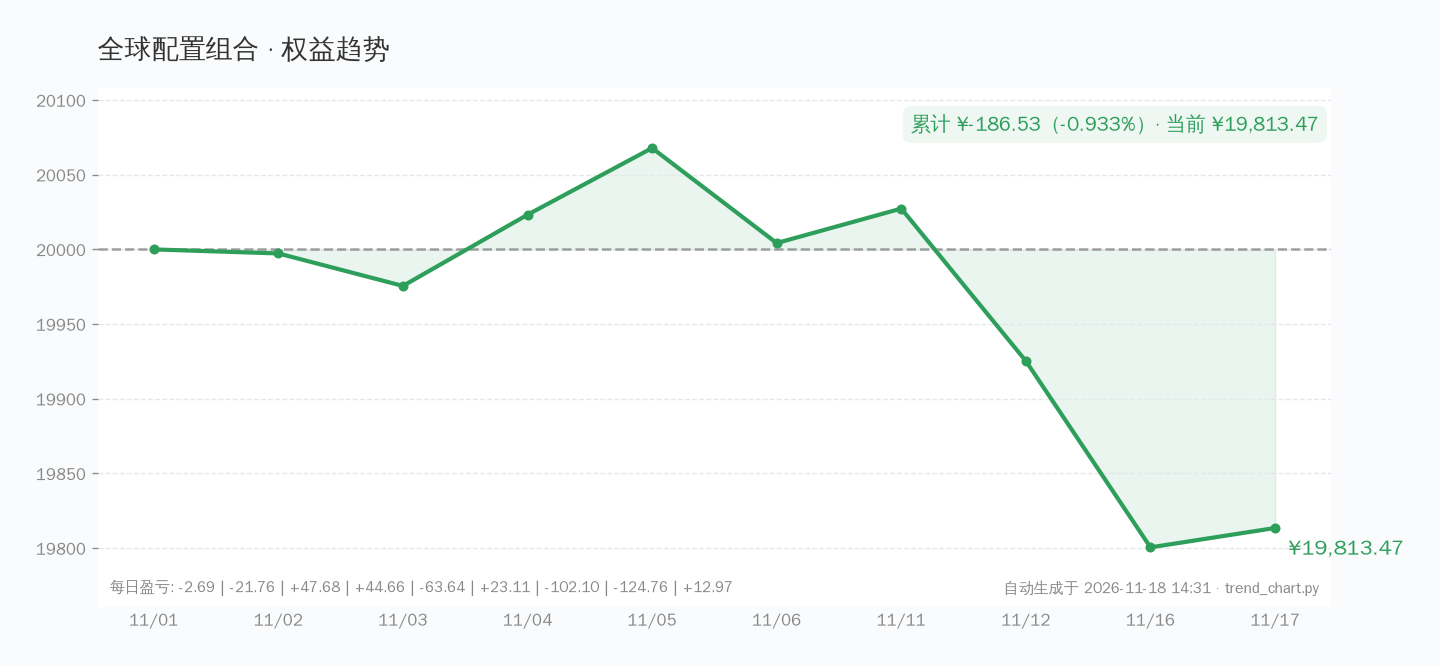
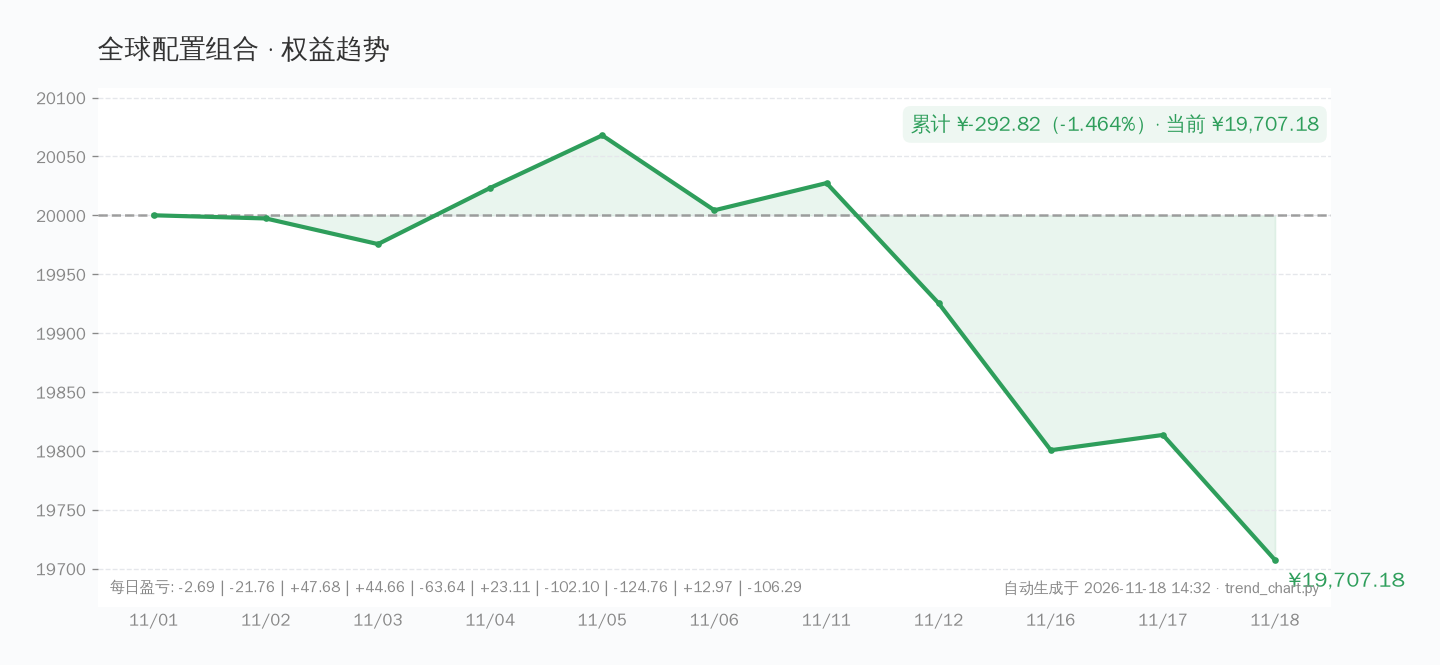
sim: trend chart update 2026-11-18 (equity ¥19,707.18)

diff --git a/sim/journal.md b/sim/journal.md
@@ -155,3 +155,16 @@
 1. 做对了什么：昨天最担心的"黄金继续杀跌"没有发生，反弹让 450 股重仓回血 +¥20；全程零操作，没有因昨日 -1% 新低而恐慌减仓，73% 现金 + 债券底仓的组合今日明显跑赢港股单边仓。
 2. 做错了什么：无新增错误；存量问题仍是 11-06 追高的 400 股黄金（成本 8.29 附近，现价 7.90，浮亏约 -4.7%），止损纪律仍未闭环，需在下一次信号评估时明确"执行止损 or 书面豁免理由"，不能再拖。
 3. 明天关注：① 港股是否连续第二日走弱（恒科若跌到 RSI<40 区域，按协议评估是否触发分批建仓条件，切忌一次性重仓）；② 黄金能否站稳 7.90 并收复 8.00，决定浮亏处置方案；③ 隔夜美股/美元指数对 QDII 与金价的方向指引。
+
+## 2026-11-18 收盘
+
+- 总权益 **¥19707.18**（当日 -0.54% / 累计 -1.464%）
+- 德国ETF华安 1.761 (-3.93%)
+- 恒生ETF华夏 1.357 (-1.24%)
+- 恒生科技ETF华夏 0.467 (-1.06%)
+- 黄金ETF华安 7.710 (-2.37%)
+- 国债ETF国泰 141.334 (-0.03%)
+- 十年国债ETF国泰 135.930 (+0.12%)
+- 现金 ¥16237.06
+- 📝 黄金ETF触及-8%止损线，按纪律减半仓225股@7.71；德国ETF日内跌3.9%但距成本仅-1.6%，持有
+
